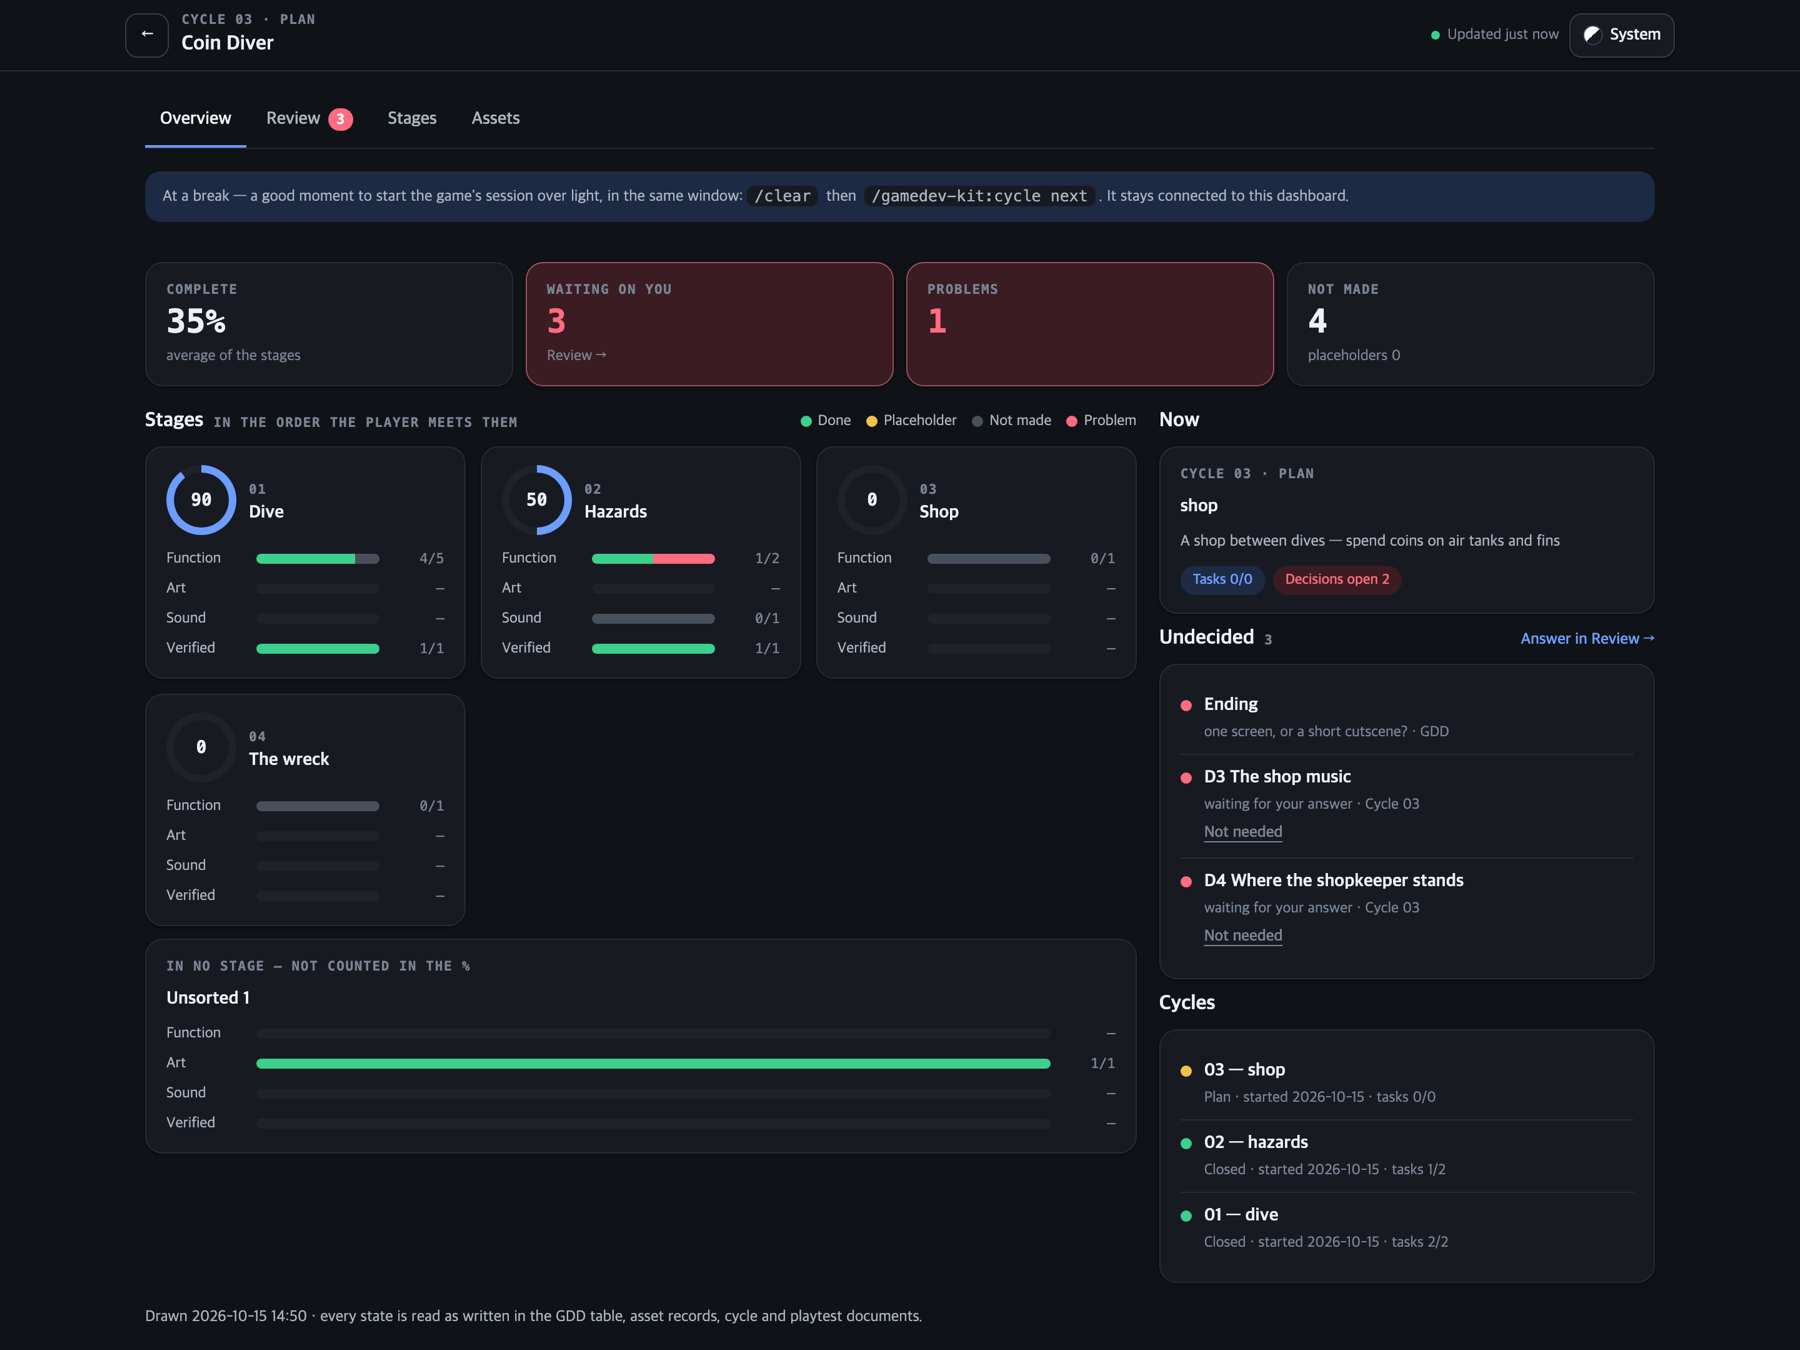
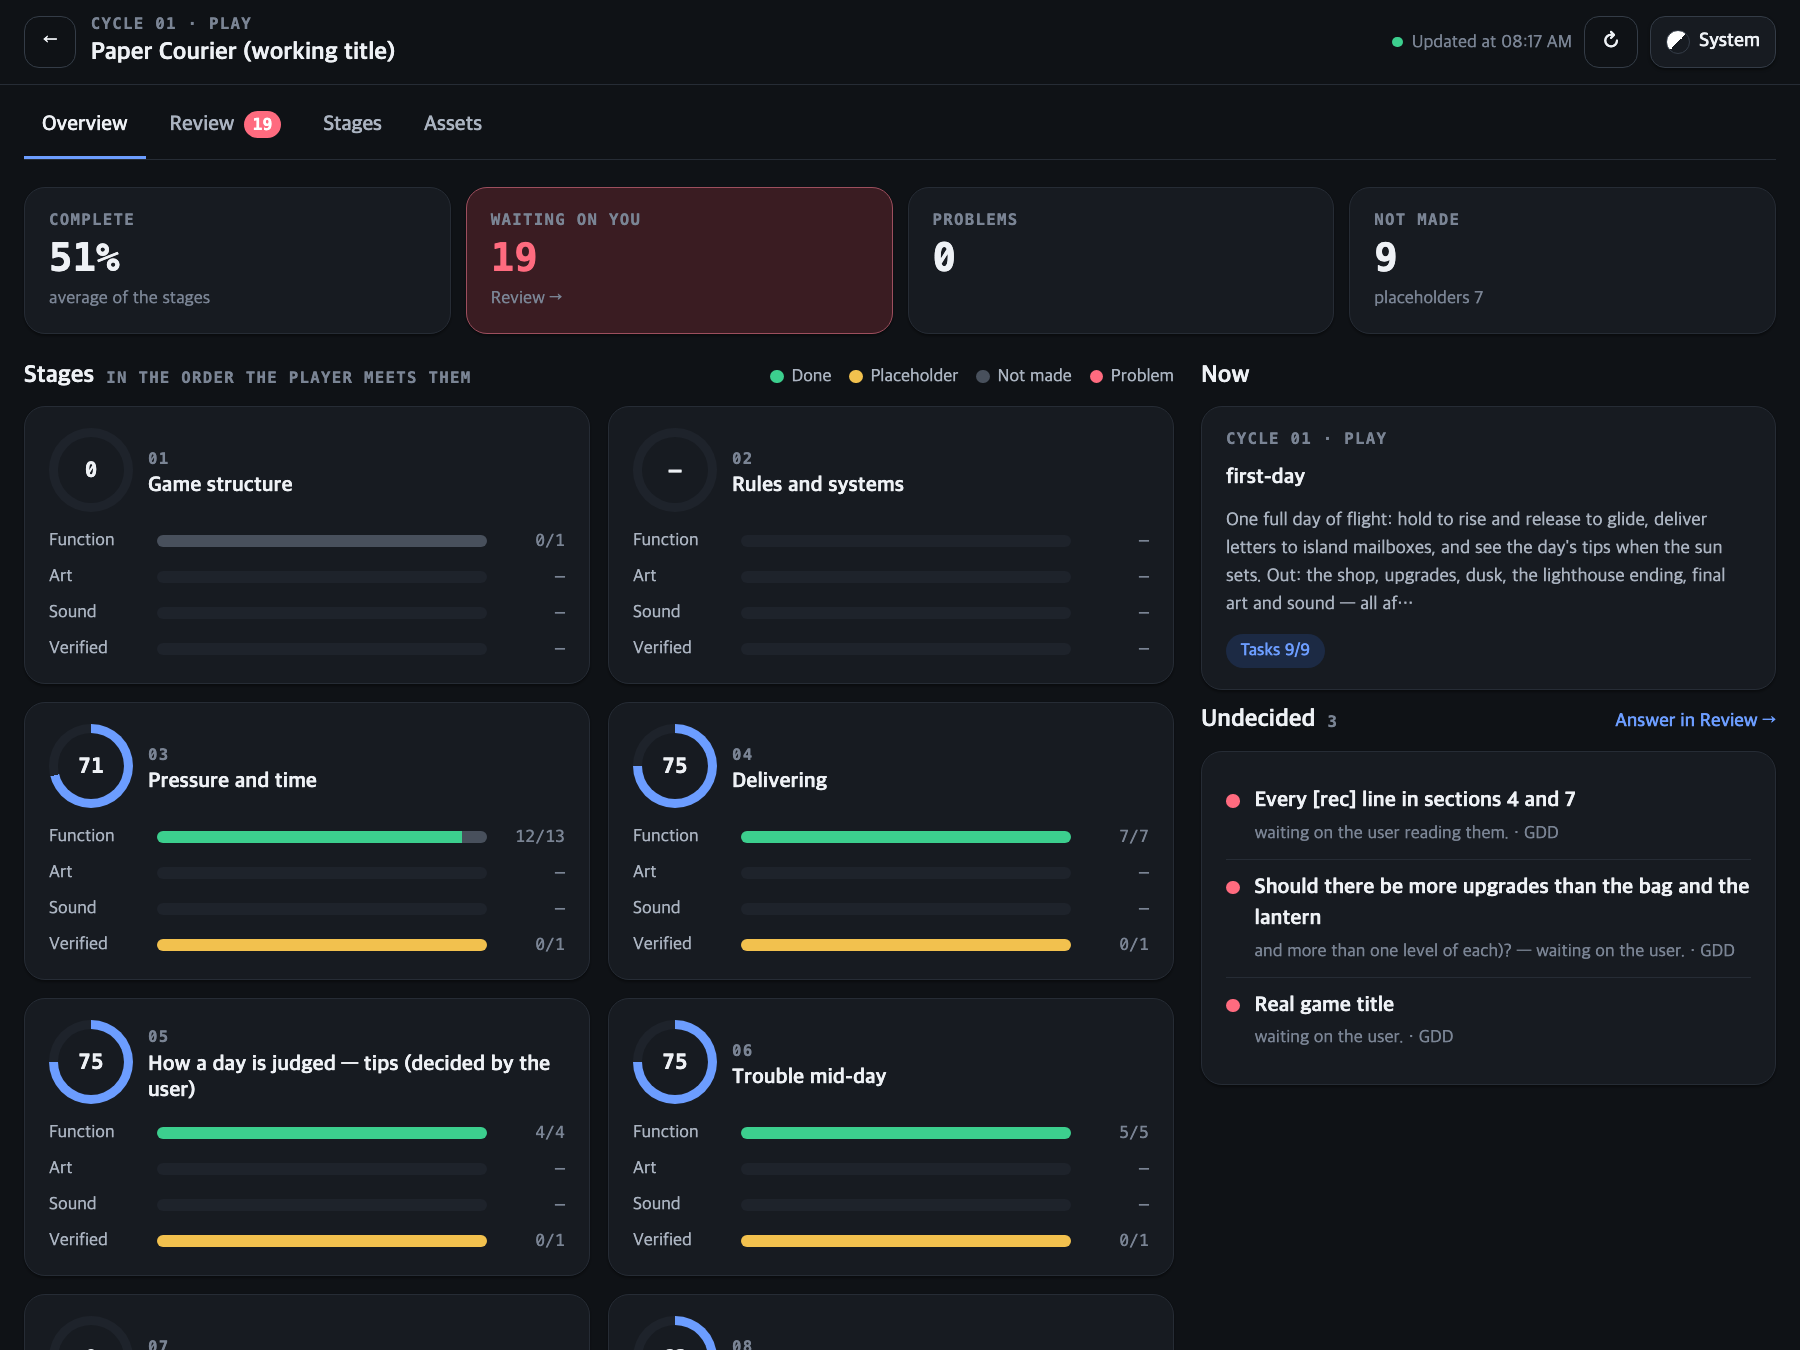
Landing: the dashboard and review captured again from Paper Courier; alts say what they show

diff --git a/app/content.ts b/app/content.ts
@@ -25,7 +25,7 @@ const en = {
     title: "Agents make your game one cycle at a time.",
     accent: "You decide, from a dashboard.",
     lead: "Spec, design, build — agents do it, cycle by cycle. Everything that is yours to decide waits for you on a dashboard that shows where every game stands.",
-    shot: "The dashboard of a sample game: stage cards in play order, beside the current cycle, what is undecided and the cycles so far",
+    shot: "The dashboard of a sample game: stage cards in play order, beside the current cycle and what is still undecided",
     start: "Get started",
     github: "View on GitHub",
     stages: ["Goal", "Spec", "Design", "Plan", "Build", "Play"],
@@ -54,7 +54,7 @@ const en = {
     title: "Making a game with AI is easy. The trouble starts when making it takes weeks.",
     lead: "You lose track of where it stands and what waits on you, the design and the code drift apart, and what you learned in the last game is gone by the next.",
     pillars: [
-      { img: "/review.png", alt: "The review tab: a decision the session is working on, and a decision with pictures to compare above its options",
+      { img: "/review.png", alt: "The review tab: a decision with three concept pictures to compare above its options, and a decision with a recommended answer",
         title: "See where every game stands — and decide there",
         text: "Each game as the player meets it, stage by stage. Every question the agents have is a decision there, with the pictures or a clip to judge it by; your answer goes to the game's Claude session." },
       { img: "/sync.svg", alt: "A GDD sync table beside code: one row synced, one mismatched, one not built yet",
@@ -186,7 +186,7 @@ const ko: Copy = {
     title: "에이전트가 한 사이클씩 만들고,",
     accent: "결정은 대시보드에서.",
     lead: "기획·디자인·구현은 에이전트가 사이클마다 합니다. 당신이 정할 것은 모두, 모든 게임이 어디까지 왔는지 보이는 대시보드에서 당신을 기다립니다.",
-    shot: "예시 게임의 대시보드: 플레이 순서대로 놓인 단계 카드, 옆에 지금 사이클과 아직 정하지 않은 것, 지금까지의 사이클",
+    shot: "예시 게임의 대시보드: 플레이 순서대로 놓인 단계 카드, 옆에 지금 사이클과 아직 정하지 않은 것",
     start: "시작하기",
     github: "GitHub에서 보기",
     stages: ["목표", "기획", "디자인", "계획", "구현", "플레이"],
@@ -215,7 +215,7 @@ const ko: Copy = {
     title: "AI로 게임을 만드는 건 쉽습니다. 문제가 되는 건 게임을 만드는 기간이 길어질 때입니다.",
     lead: "어디까지 왔는지, 무엇이 나를 기다리는지 놓치고, 기획과 코드가 어긋나고, 지난 게임에서 배운 것은 다음 게임에서 사라집니다.",
     pillars: [
-      { img: "/review.png", alt: "리뷰 탭: 세션이 처리 중인 결정, 비교 그림이 붙은 결정과 그 선택지",
+      { img: "/review.png", alt: "리뷰 탭: 컨셉 그림 세 장을 비교하며 고르는 결정, 추천 답이 붙은 결정",
         title: "어디까지 왔는지 보고, 거기서 정합니다",
         text: "모든 게임을 플레이어가 만나는 순서대로, 단계마다 보여 줍니다. 에이전트가 묻는 건 전부 볼 그림이나 영상이 붙은 결정으로 오고, 답하면 게임의 Claude 세션이 받아 갑니다." },
       { img: "/sync.svg", alt: "기획서 동기화 표와 코드: 한 줄은 일치, 한 줄은 불일치, 한 줄은 아직 구현 안 됨",
